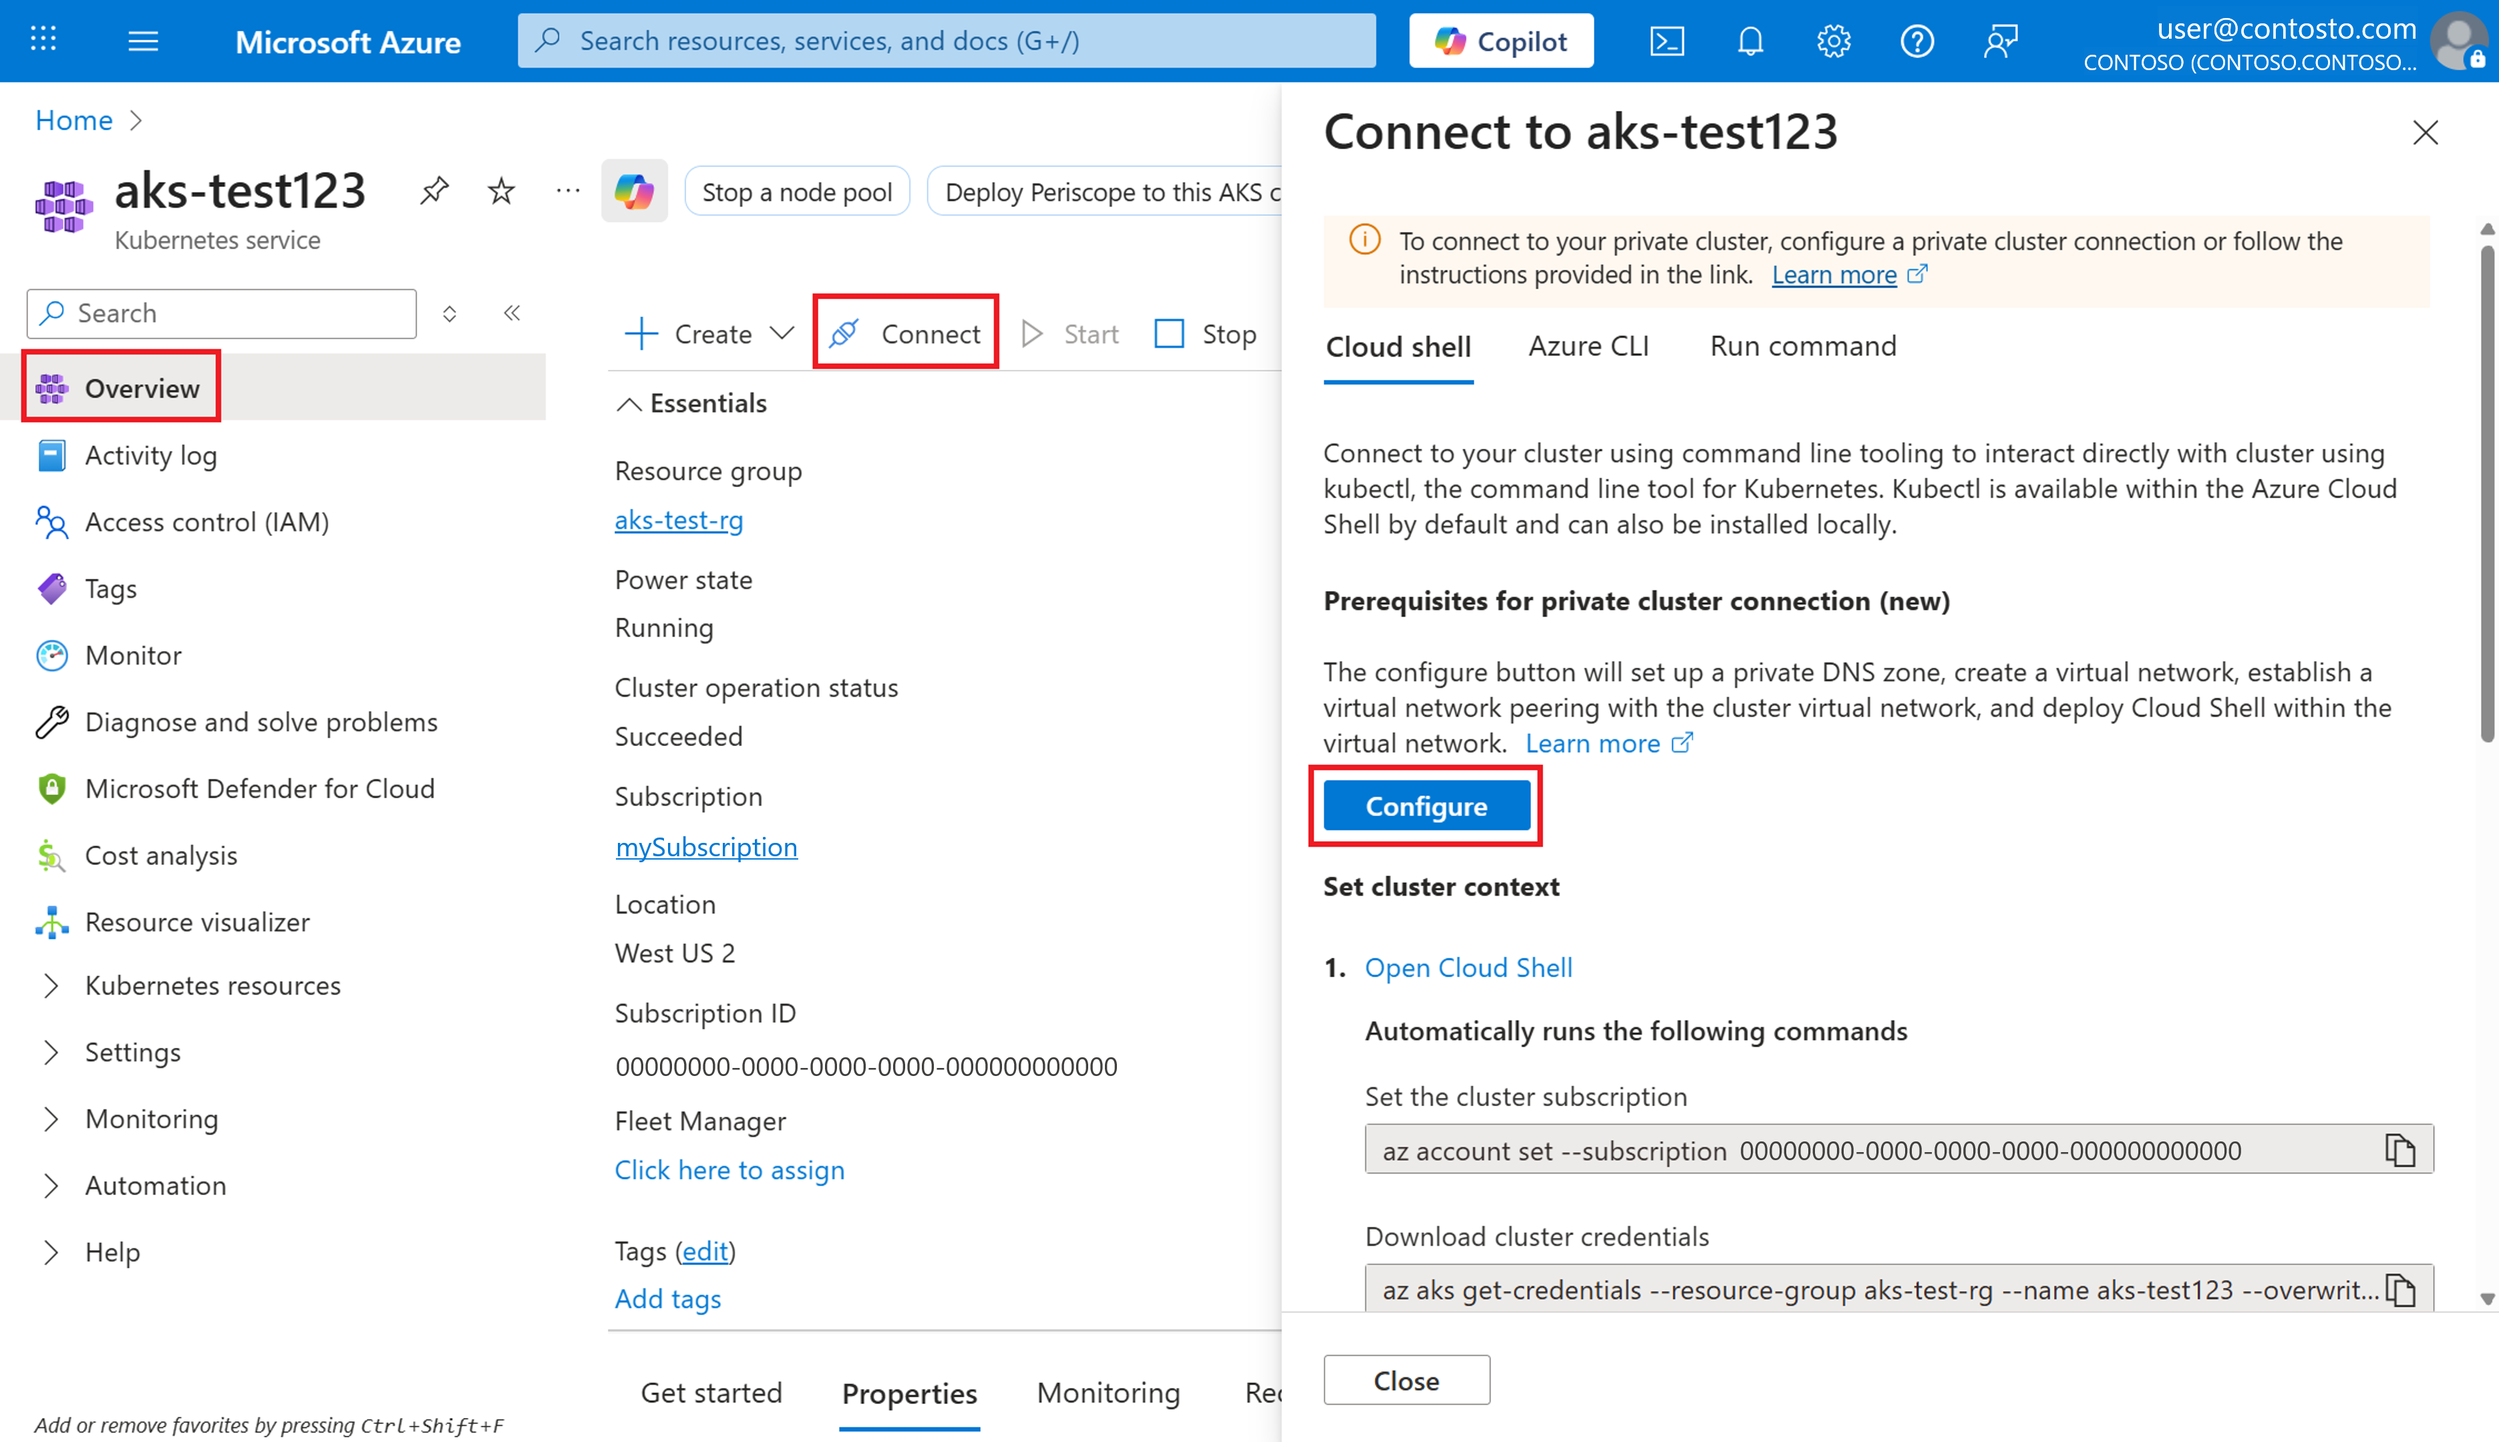
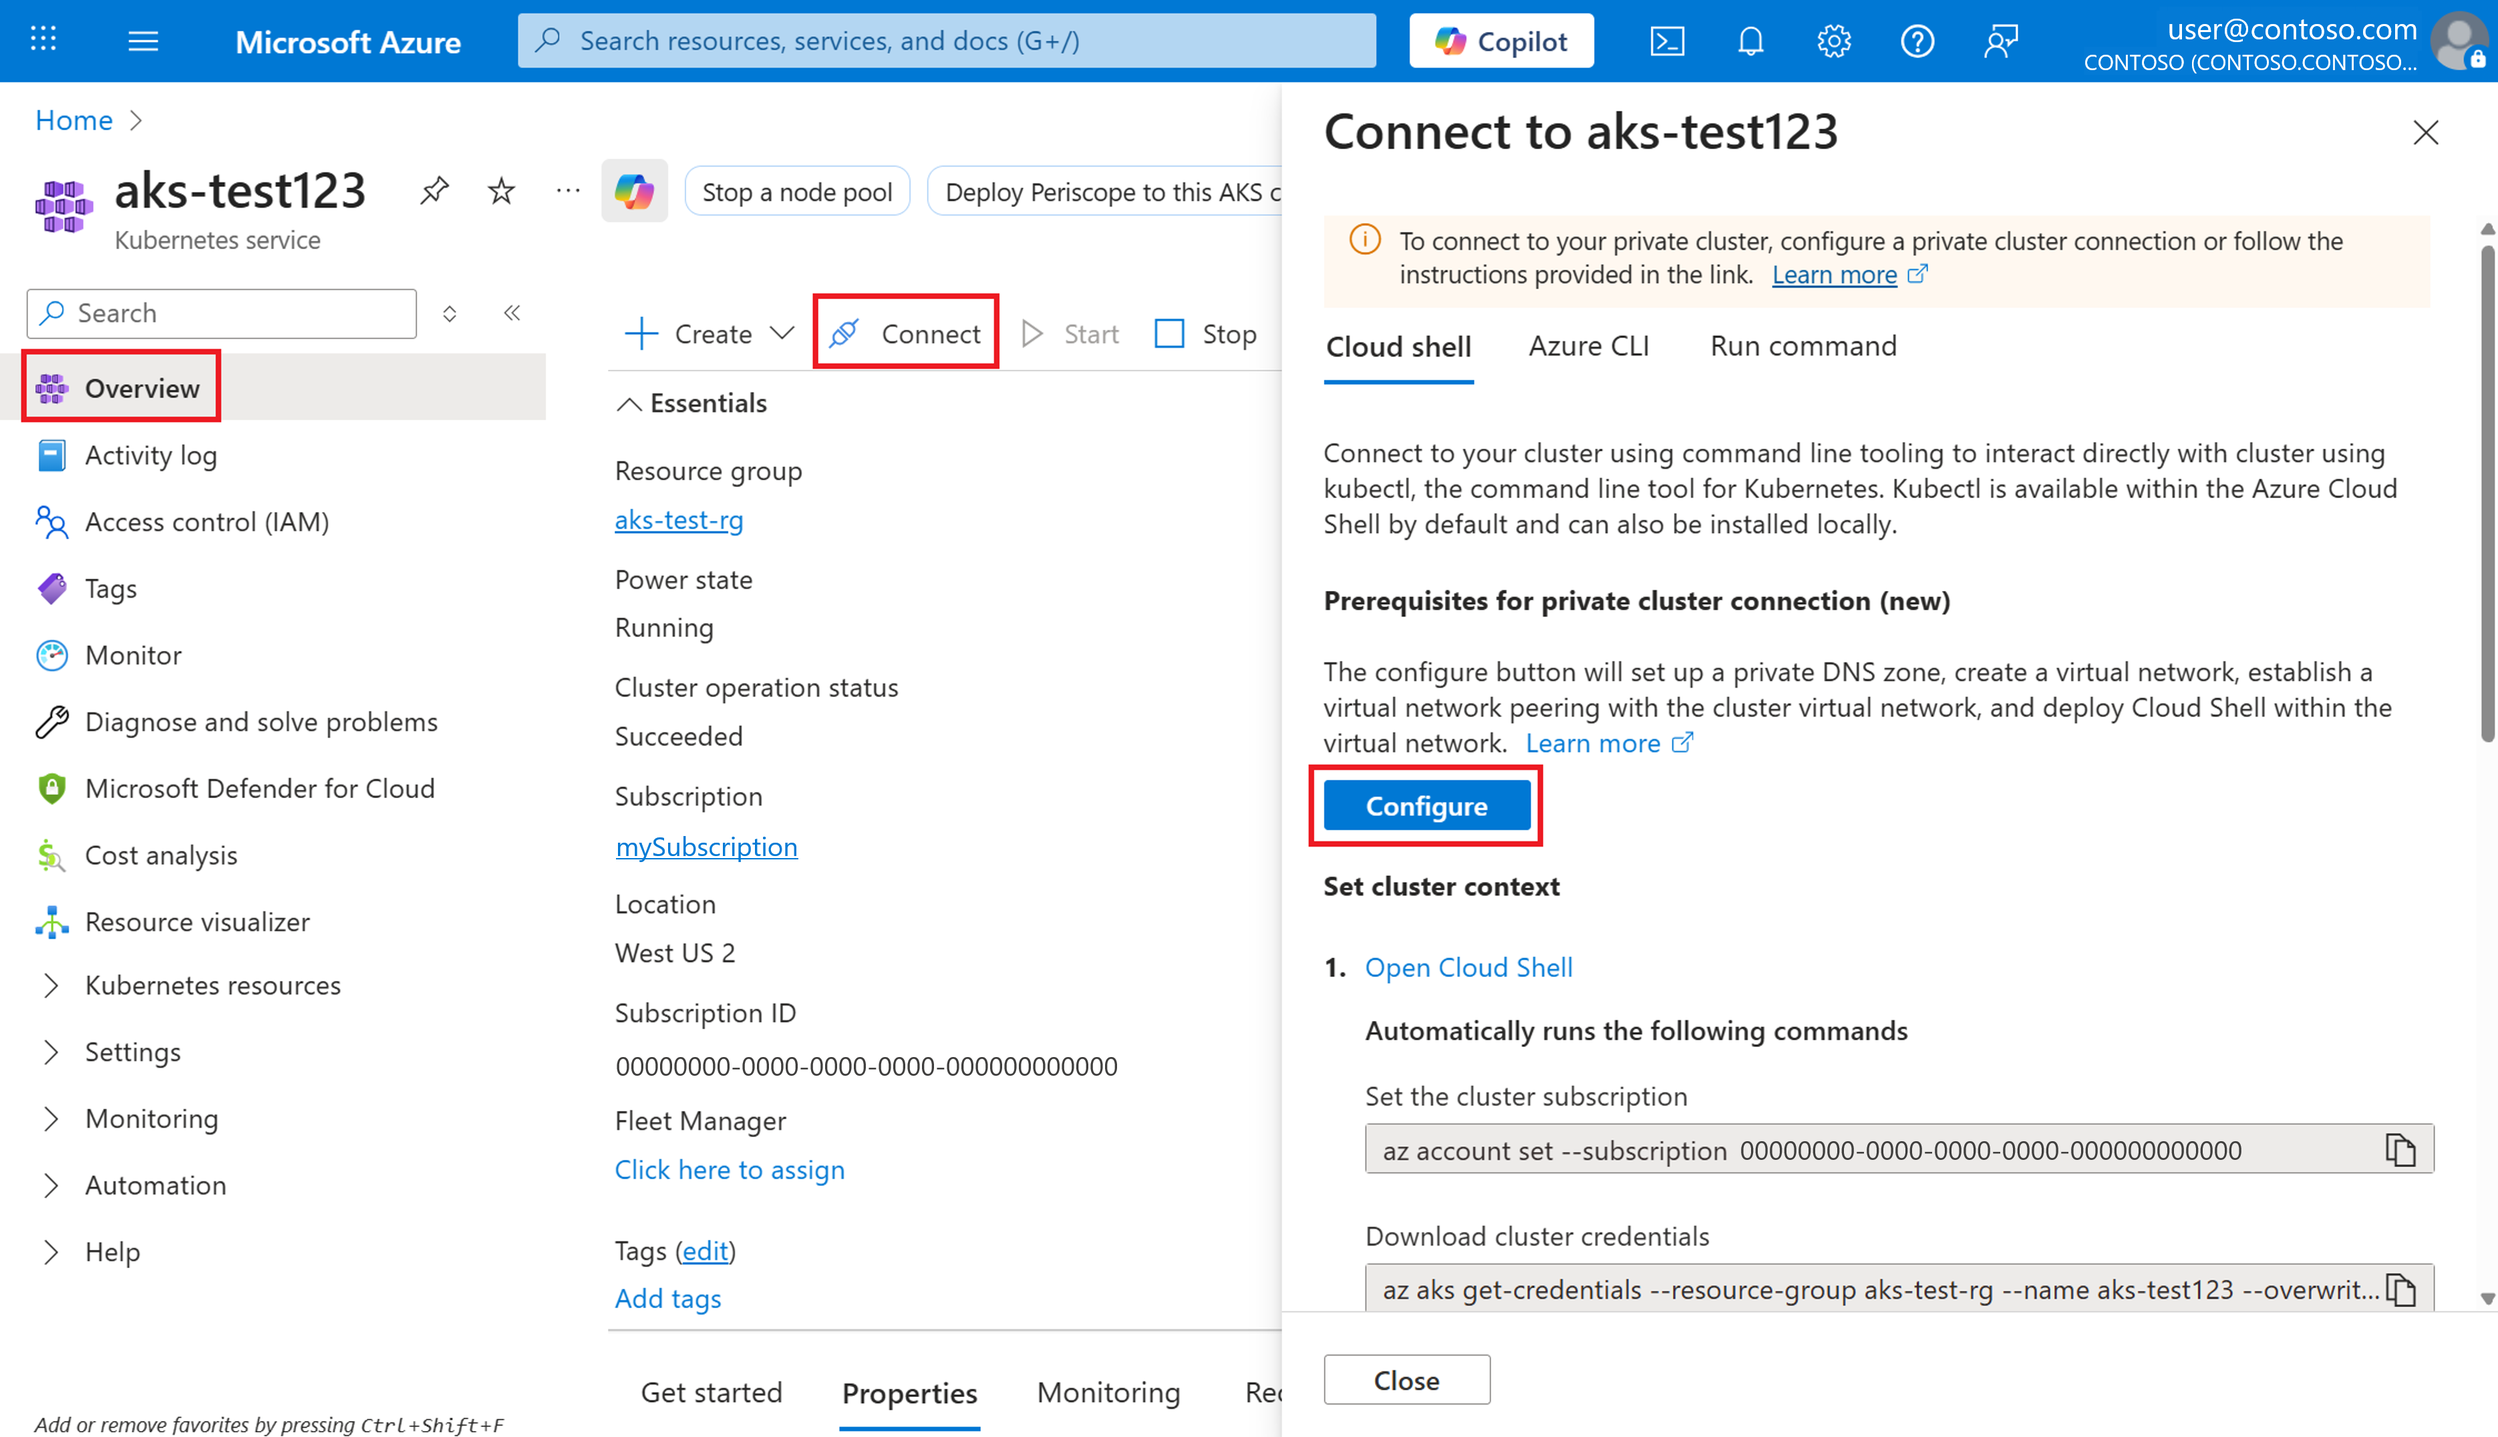
Fixed screenshot accessibility and separate note

diff --git a/articles/aks/private-clusters.md b/articles/aks/private-clusters.md
@@ -282,7 +282,7 @@ This option creates a separate VNet with the necessary resources for Cloud Shell
     - The deployment creates a new resource group named `RG-CloudShell-PrivateClusterConnection-{RANDOM_ID}`.
 4. Once the deployment has succeeded, under **Set cluster context**, select **Open Cloud Shell**.
 
-![Azure Portal Cloud Shell Connect Button](media/access-private-cluster/azure-portal-cloud-shell-connect.png)
+[ ![Screenshot of the Azure Portal at a private cluster's resource page showing the Cloud Shell configuration button.](media/access-private-cluster/azure-portal-cloud-shell-connect.png) ](media/access-private-cluster/azure-portal-cloud-shell-connect.png#lightbox)
 
 If Cloud Shell has already been configured in a VNet for a particular cluster, repeating these steps ensures your Cloud Shell user settings are correctly aligned with that VNet.
 
@@ -388,7 +388,8 @@ When deploying an AKS cluster into such a networking environment, there are some
 
   * **Public DNS only** – Disable private‑zone creation by setting `privateDNSZone` to `none` **and** leave `publicDNS` at its default value (`true`).
 
-  > Setting `privateDNSZone: none` **and** `publicDNS: false` at the same time is **not supported**;
+> [!NOTE]
+> Setting `privateDNSZone: none` **and** `publicDNS: false` at the same time is **not supported**.
 
 > [!NOTE]
 > Conditional forwarding doesn't support subdomains.
